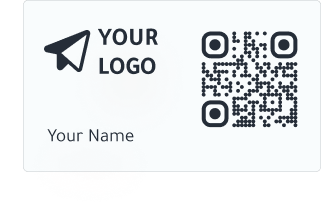
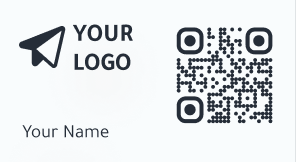
style components

diff --git a/components/index.jsx b/components/index.jsx
@@ -1,4 +1,4 @@
-import { Box, Grid ,Typography} from "@material-ui/core";
+import { Box, Grid, Typography, ButtonBase } from "@material-ui/core";
 // import { makeStyles } from "@material-ui/core/styles";
 import ImageCard from "../public/card.png";
 import ImageIphone from "../public/iPhone.png";
@@ -57,9 +57,9 @@ export default function Work() {
                 </Typography>
               </Typography>
             </Grid>
-            <Grid className={style.imgCard}>
-              <Image src={ImageCard} alt="Card image" />
-            </Grid>
+            <ButtonBase className={style.imgCard}>
+              <Image src={ImageCard} />
+            </ButtonBase>
           </Grid>
         </Grid>
         {/* tow card */}
@@ -72,10 +72,12 @@ export default function Work() {
           md={7}
           lg={5}
         >
-          <Grid item sm={5} md={3} className={style.imgIphone}>
-            <Image src={ImageIphone} alt="Iphone image" />
+          <Grid item>
+            <ButtonBase className={style.imgIphone}>
+              <Image src={ImageIphone} />
+            </ButtonBase>
           </Grid>
-          <Grid item sm={7} md={4} lg={8}>
+          <Grid item sm={5} md={4} lg={8}>
             <Grid item>
               <Grid container spacing={2}>
                 <Grid item xs={4}>
@@ -93,7 +95,14 @@ export default function Work() {
                 </Grid>
               </Grid>
             </Grid>
-            <Grid item sm={8} md={10} lg={10} style={{ margin: "2.5rem 1rem" }} className={style.typoPhone}>
+            <Grid
+              item
+              sm={8}
+              md={10}
+              lg={10}
+              style={{ margin: "2.5rem 1rem" }}
+              className={style.typoPhone}
+            >
               <Typography>
                 The website will recognize the card and show the Extended
                 Business Card.

diff --git a/components/Works.jsx b/components/Works.jsx
@@ -4,7 +4,7 @@ import Card from "@material-ui/core/Card";
 import Typography from "@material-ui/core/Typography";
 import StyleButton from "./Button/StyleButton";
 import Link from "next/link";
-import style from "../styles/works.module.css"
+import style from "../styles/works.module.css";
 
 // const useStyles = makeStyles(() => ({
 //   card: {
@@ -39,7 +39,7 @@ import style from "../styles/works.module.css"
 export const Works = () => {
   // const classes = useStyles();
   return (
-    <Card className={style.card} id="works">
+    <div className={style.card} id="works">
       <Grid
         container
         direction="column"
@@ -47,17 +47,17 @@ export const Works = () => {
         alignItems="center"
       >
         <div className={style.box}>
-          <Typography  variant="h4" style={{textAlign: "center"}}>
+          <Typography variant="h4" style={{ textAlign: "center" }}>
             Let’s make your business card close more deals
           </Typography>
         </div>
-       <Link href="/contact">
-         <a className={style.link}>
-        <StyleButton />
-         </a>
-       </Link>
+        <Link href="/contact">
+          <a className={style.link}>
+            <StyleButton />
+          </a>
+        </Link>
       </Grid>
-    </Card>
+    </div>
   );
 };
 

diff --git a/pages/contact.jsx b/pages/contact.jsx
@@ -8,30 +8,29 @@ import style from "../styles/Home.module.css";
 import Image from "next/image";
 import Pic from "../public/pic.png";
 
-
 export default function AutoGrid() {
   return (
     <div>
-       <Head>
+      <Head>
         <title>Beyin</title>
         <meta name="description" content="Beyin Digital Technology" />
         <link rel="icon" href="/favicon.ico" />
       </Head>
-    <Box>
-      <Navbar />
-      <Container>
-        <Grid container className={style.grid}>
-          <div className={style.img}>
-            <Image src={Pic} alt="Image Beyin" />
-          </div>
-          <Grid className={style.grid}>
-           <Paper>
-           <ContactForm />
-           </Paper>
+      <Box>
+        <Navbar />
+        <Container>
+          <div style={{ margin:"1rem auto"}}>
+          <Grid container className={style.grid}>
+            <div className={style.img}>
+              <Image src={Pic} alt="Image Beyin" />
+            </div>
+            <Grid className={style.grid}>
+              <ContactForm />
+            </Grid>
           </Grid>
-        </Grid>
-      </Container>
-    </Box>
+          </div>
+        </Container>
+      </Box>
     </div>
   );
 }

diff --git a/components/Navbar.jsx b/components/Navbar.jsx
@@ -88,16 +88,13 @@ function Navbar() {
               <a className={style.link}>Prices</a>
             </Link>
             <div className={style.btn}>
-              <Button size="large">
-                <Link href="/contact">
-                  <a className={style.get}>Get Started</a>
-                </Link>
-              </Button>
-              <Button>
-                <Link href="#">
-                  <a className={style.log}>Login</a>
-                </Link>
-              </Button>
+              <Link href="/contact">
+                <a className={style.get}>Get Started</a>
+              </Link>
+
+              <Link href="#">
+                <a className={style.log}>Login</a>
+              </Link>
             </div>
           </div>
         )}

diff --git a/styles/index.module.css b/styles/index.module.css
@@ -13,12 +13,21 @@
 }
 
 .imgIphone {
-  box-shadow: 0px 67.6825px 87.2063px rgba(0, 0, 0, 0.01);
-  border-radius: 19px;
+/* Dark beyin */
+
+background: #1E2D3D;
+/* Beyin super dark */
+border-radius: 2.4rem;
+border: 3rem solid #151F2B;
+box-shadow: 0px 67.6825px 87.2063px rgba(0, 0, 0, 0.11);
 }
 .imgCard {
-  box-shadow: 0px 138px 189px -76px rgba(0, 0, 0, 0.03);
-  border-radius: 5px;
+  background: #F9FCFD;
+border: 0.525573px solid rgba(37, 45, 56, 0.23);
+box-shadow: 0px 88.8219px 131.393px -45.7249px rgba(0, 0, 0, 0.14);
+border-radius: 5.25573px;
+
+width:80%;
 }
 .typo2 {
   display: flex;

diff --git a/styles/navbar.module.css b/styles/navbar.module.css
@@ -5,7 +5,7 @@
   display: flex;
 }
 .btn {
-  margin: auto 10rem;
+  margin: auto 5rem;
 }
 .link {
   font-family: "Poppins";
@@ -29,13 +29,21 @@
   font-size: 24px;
   line-height: 21px;
   text-decoration: none;
-  padding: 8px 2rem;
+  padding: 8px 3.5rem;
   color: #58696d;
 }
+
 .get {
   border: 1px solid #fff;
   border-radius: 24px;
   text-decoration: none;
   padding: 8px 2rem;
   color: #58696d;
+  font-size: 24px;
+}
+.log:hover {
+  background: #e9ebeb;
+}
+.get:hover {
+  background: #e9ebeb;
 }

diff --git a/styles/hero.module.css b/styles/hero.module.css
@@ -22,10 +22,14 @@
   border-radius: 23rem;
 }
 .video {
-  max-width: 100%;
+   max-width: 100%;
   height: 100%;
+  /* border-radius: 30px; */
+  /* box-shadow: "0 134px 148px -76px rgba(0, 0, 0, 0.3)"; */
+  /* box-shadow: 0px 70px 229px 0px rgba(0, 0, 0, 0.2); */
+  border: 6px solid #1E2D3D;
+  filter: drop-shadow(0px 104px 134px rgba(0, 0, 0, 0.11));
   border-radius: 30px;
-  box-shadow: "0 134px 148px -76px rgba(0, 0, 0, 0.3)";
 }
 .link {
   font-family: "Poppins";

diff --git a/styles/works.module.css b/styles/works.module.css
@@ -3,7 +3,7 @@
   width: 100%;
   height: 100%;
   background: #fbfbfb;
-  box-shadow: 0px 138px 189px -76px rgba(0, 0, 0, 0.06);
+  box-shadow:  0px 138px 189px -76px rgba(0, 0, 0, 0.06);
   border: 2px solid rgba(227, 227, 227, 0.8);
   border-radius: 20px;
 }
